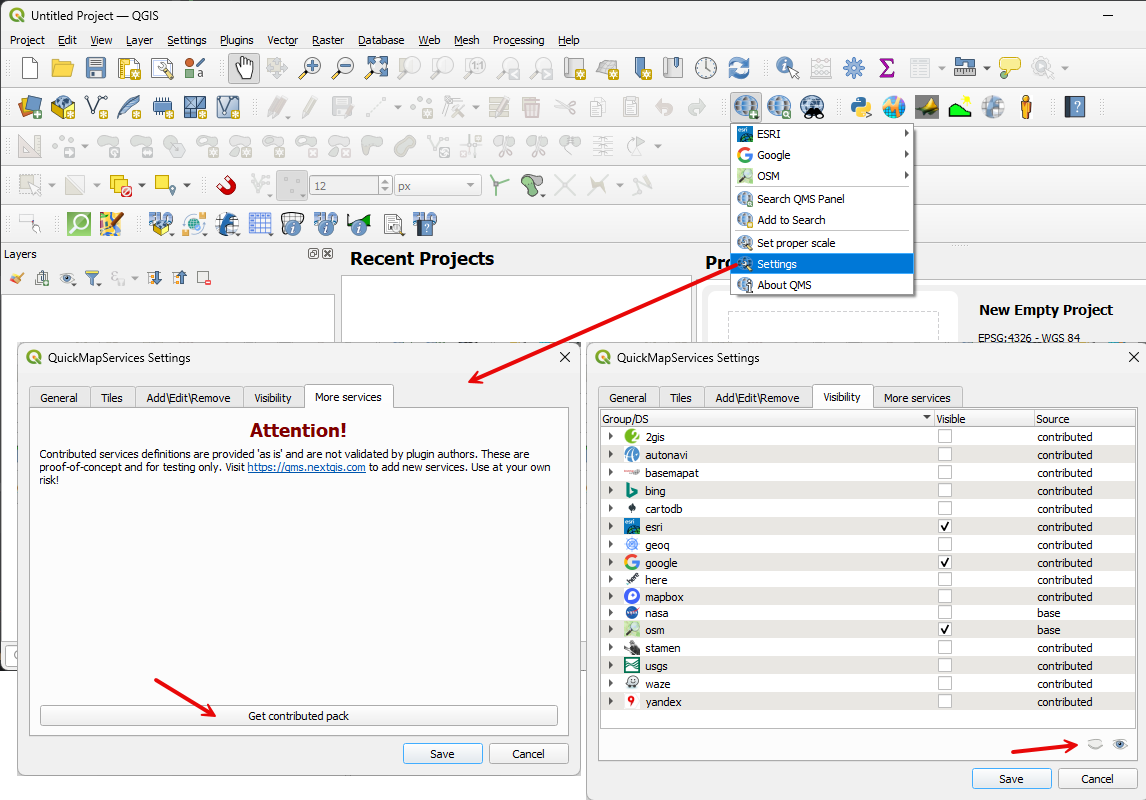
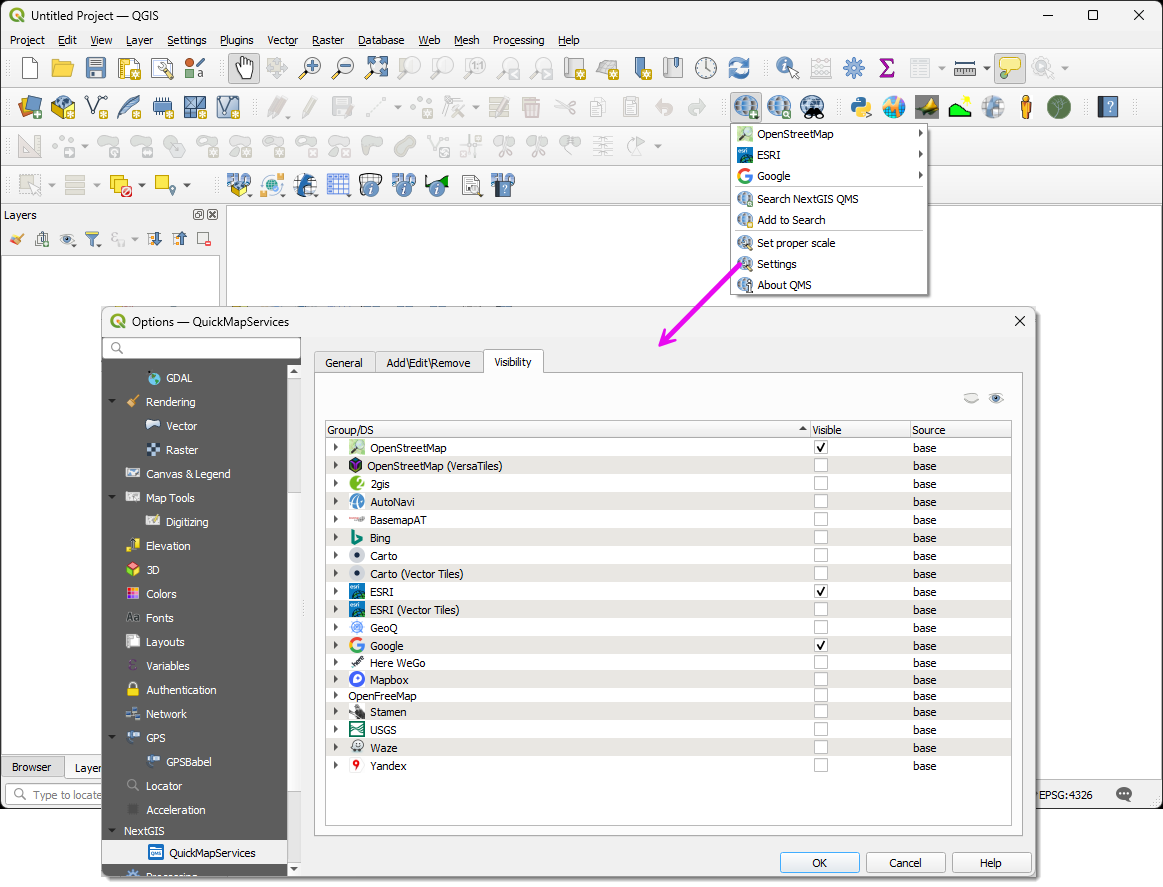
update lesson 1 and 2 self help

diff --git a/source/tutorials/Self-Help-Kit-Gila/2-Grid.rst b/source/tutorials/Self-Help-Kit-Gila/2-Grid.rst
@@ -297,67 +297,67 @@ The **Project Domain** layer can be removed, as it has already been copied into 
 
 .. image:: ../img/shg/2/shg02_026.png
 
-**Review the GeoPackage Structure**
-++++++++++++++++++++++++++++++++++++
+.. dropdown:: Optional: Review the GeoPackage Structure
+   :icon: database
 
-Open the **Browser Panel** and dock it next to the **Layers Panel** by dragging the panel with a left-click and
-dropping it on the Layers Panel when highlighted.
+   Open the **Browser Panel** and dock it next to the **Layers Panel** by dragging the panel with a left-click and
+   dropping it on the Layers Panel when highlighted.
 
-.. image:: ../img/shg/2/shg_002.gif
+   .. image:: ../img/shg/2/shg_002.gif
 
-Connect to the **Project GeoPackage** by right-clicking the **GeoPackage** section and selecting **New Connection**.
-Choose the **Project GeoPackage** file and click **Open**.
+   Connect to the **Project GeoPackage** by right-clicking the **GeoPackage** section and selecting **New Connection**.
+   Choose the **Project GeoPackage** file and click **Open**.
 
-.. image:: ../img/shg/2/shg02_027.png
+   .. image:: ../img/shg/2/shg02_027.png
 
-Expand the **GeoPackage** and use the **E, G, and M** keys on the keyboard to quickly navigate to tables that begin
-with those letters.
+   Expand the **GeoPackage** and use the **E, G, and M** keys on the keyboard to quickly navigate to tables that begin
+   with those letters.
 
-.. image:: ../img/shg/2/shg_003.gif
+   .. image:: ../img/shg/2/shg_003.gif
 
-**Using SQL Tools in GeoPackage**
-++++++++++++++++++++++++++++++++++++
+   **Using SQL Tools in GeoPackage**
+   ++++++++++++++++++++++++++++++++++++
 
-To execute SQL queries, right-click the **Grid** layer and select **Execute SQL**.
+   To execute SQL queries, right-click the **Grid** layer and select **Execute SQL**.
 
-.. image:: ../img/shg/2/shg02_029.png
+   .. image:: ../img/shg/2/shg02_029.png
 
-To compute basic statistics on the `n_value` field in the `grid` table within a GeoPackage database, use the
-following SQL query:
+   To compute basic statistics on the `n_value` field in the `grid` table within a GeoPackage database, use the
+   following SQL query:
 
-.. code-block:: sql
+   .. code-block:: sql
 
-    SELECT
-        MIN(n_value) AS min_value,
-        MAX(n_value) AS max_value,
-        AVG(n_value) AS mean_value,
-        SUM(n_value) AS sum_value,
-        COUNT(n_value) AS total_entries,
-        (SUM(n_value * n_value) / COUNT(n_value)) - (AVG(n_value) * AVG(n_value)) AS variance,
-        SQRT((SUM(n_value * n_value) / COUNT(n_value)) - (AVG(n_value) * AVG(n_value))) AS std_dev
-    FROM grid;
+      SELECT
+         MIN(n_value) AS min_value,
+         MAX(n_value) AS max_value,
+         AVG(n_value) AS mean_value,
+         SUM(n_value) AS sum_value,
+         COUNT(n_value) AS total_entries,
+         (SUM(n_value * n_value) / COUNT(n_value)) - (AVG(n_value) * AVG(n_value)) AS variance,
+         SQRT((SUM(n_value * n_value) / COUNT(n_value)) - (AVG(n_value) * AVG(n_value))) AS std_dev
+      FROM grid;
 
-**Query Explanation:**
+   **Query Explanation:**
 
-- `MIN(n_value)`: Returns the **minimum** roughness value.
-- `MAX(n_value)`: Returns the **maximum** roughness value.
-- `AVG(n_value)`: Computes the **mean** roughness value.
-- `SUM(n_value)`: Returns the **sum** of all roughness values.
-- `COUNT(n_value)`: Counts the **total number of records**.
-- `variance`: Computes the **variance** of `n_value`.
-- `std_dev`: Computes the **standard deviation**.
+   - `MIN(n_value)`: Returns the **minimum** roughness value.
+   - `MAX(n_value)`: Returns the **maximum** roughness value.
+   - `AVG(n_value)`: Computes the **mean** roughness value.
+   - `SUM(n_value)`: Returns the **sum** of all roughness values.
+   - `COUNT(n_value)`: Counts the **total number of records**.
+   - `variance`: Computes the **variance** of `n_value`.
+   - `std_dev`: Computes the **standard deviation**.
 
-**Executing the Query in QGIS:**
+   **Executing the Query in QGIS:**
 
-1. Right-click the **grid** table and select **Execute SQL**.
-2. Paste the SQL query into the query editor.
-3. Click **Run** to execute the query and display the results.
+   1. Right-click the **grid** table and select **Execute SQL**.
+   2. Paste the SQL query into the query editor.
+   3. Click **Run** to execute the query and display the results.
 
-.. image:: ../img/shg/2/shg02_028.png
+   .. image:: ../img/shg/2/shg02_028.png
 
-.. hint:: Using SQL processing is a more efficient method for analyzing data in GeoPackages. Large grids (over 1 million
-   cells) may experience performance issues when using QGIS table joins and table tools. SQL-based queries operate
-   directly on the database without requiring additional memory allocation, making them significantly faster.
+   .. hint:: Using SQL processing is a more efficient method for analyzing data in GeoPackages. Large grids (over 1 million
+      cells) may experience performance issues when using QGIS table joins and table tools. SQL-based queries operate
+      directly on the database without requiring additional memory allocation, making them significantly faster.
 
 **Quick Run**
 +++++++++++++++++++++

diff --git a/source/tutorials/Self-Help-Kit-Gila/1-Setup.rst b/source/tutorials/Self-Help-Kit-Gila/1-Setup.rst
@@ -91,8 +91,7 @@ Navigate to **Settings > Options** and apply the correct configurations.
 Set Up Quick Map Services
 ++++++++++++++++++++++++++++
 
-The Quick Map Services plugin requires a **Contributed Pack** and visibility control adjustments. Open the plugin
-settings, download the **Contributed Pack**, and uncheck any maps that are not needed.
+Open the plugin settings and uncheck any maps that are not needed.
 
 .. image:: ../img/shg/1/shg_011.png
 
@@ -105,3 +104,84 @@ initial setup, the setup process must be repeated.
 Each user account has a distinct profile. If another user logs into the computer, a separate QGIS profile must be
 configured. For example, a student account on a shared computer will not have the same QGIS configuration as an
 administrative account.
+
+FLO-2D Reference Materials
+=============================
+
+Technical reference manuals, user manuals, and tutorials are found on the FLO-2D website. https://documentation.flo-2d.com
+
+The most important documents are:
+
+-Data Input Manual
+-FLO-2D Reference Manual
+-Channel Guidelines
+-Storm Drain Guidelines
+-Hydraulic Structure Guidelines
+
+Technical assistance is available for bug fixes, installation support, and general guidance. Please send a 
+screenshot of the problem to us via email. Most tech support is managed quickly and effectively by email. 
+The short course files are installed in the path:
+
+C:\\Users\\Public\\Documents\\FLO-2D PRO Documentation\Example Projects\\Self Help Kit
+
+FLO-2D Units
+=====================
+
+.. list-table::
+   :header-rows: 1
+   :widths: 40 30 30
+
+   * - Parameter
+     - Unit (Imperial)
+     - Unit (Metric)
+
+   * - Grid Size
+     - feet (ft)
+     - meters (m)
+
+   * - Elevation
+     - feet (ft)
+     - meters (m)
+
+   * - Area
+     - square feet (ft²)
+     - square meters (m²)
+
+   * - Storage Volume (Large Scale)
+     - acre-feet (ac-ft)
+     - cubic meters (m³)
+
+   * - Discharge
+     - cubic feet per second (cfs)
+     - cubic meters per second (m³/s)
+
+   * - Simulation Time
+     - hours (hr)
+     - hours (hr)
+
+   * - Time Step
+     - hours (hr)
+     - hours (hr)
+
+   * - Flow Velocity
+     - feet per second (ft/s)
+     - meters per second (m/s)
+
+   * - Hydraulic Conductivity
+     - inches per hour (in/hr)
+     - millimeters per hour (mm/hr)
+
+   * - Rainfall Intensity
+     - inches per hour (in/hr)
+     - millimeters per hour (mm/hr)
+
+   * - Manning's n
+     - dimensionless
+     - dimensionless
+
+   * - Flow Rate
+     - cubic feet per second (cfs)
+     - cubic meters per second (m³/s)
+		
+There is no need to convert Manning's N. The conversion is part of the calculation		
+

diff --git a/source/tutorials/Self-Help-Kit-Gila/10-Troubleshooting.rst b/source/tutorials/Self-Help-Kit-Gila/10-Troubleshooting.rst
@@ -78,3 +78,5 @@ A: I’ll need to do some research, but the engine should use both types. Howeve
 
 **Q: Which .OUT file has channel cross-section outflow hydrographs if we are to transfer flows between domains where the channel continues in downstream domains?**
 A: Use the discharge at the next upstream node. You can get that from the QGIS reporting tool or from hycross.out.
+
+
